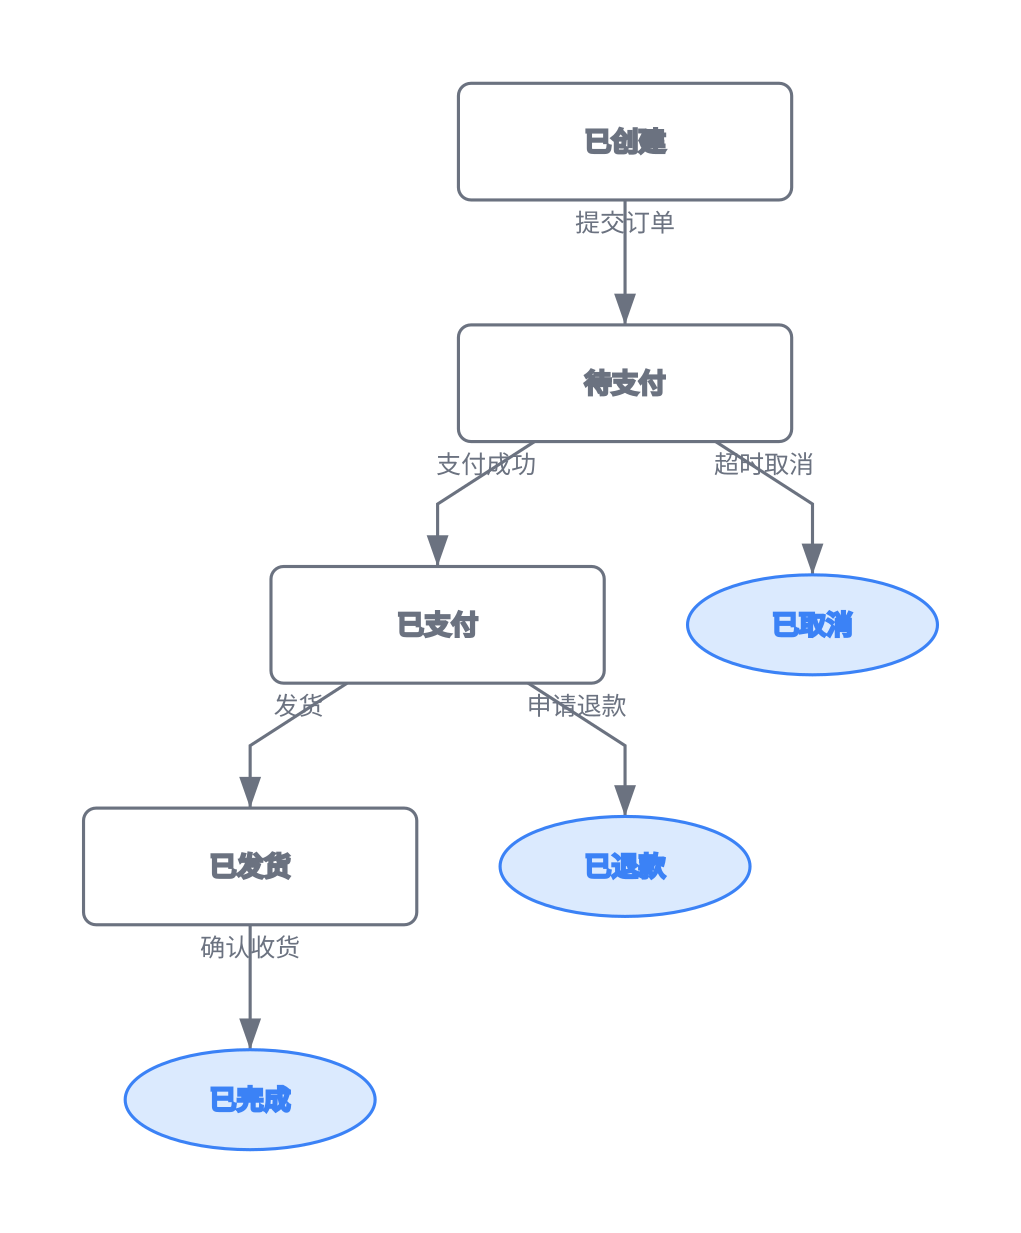
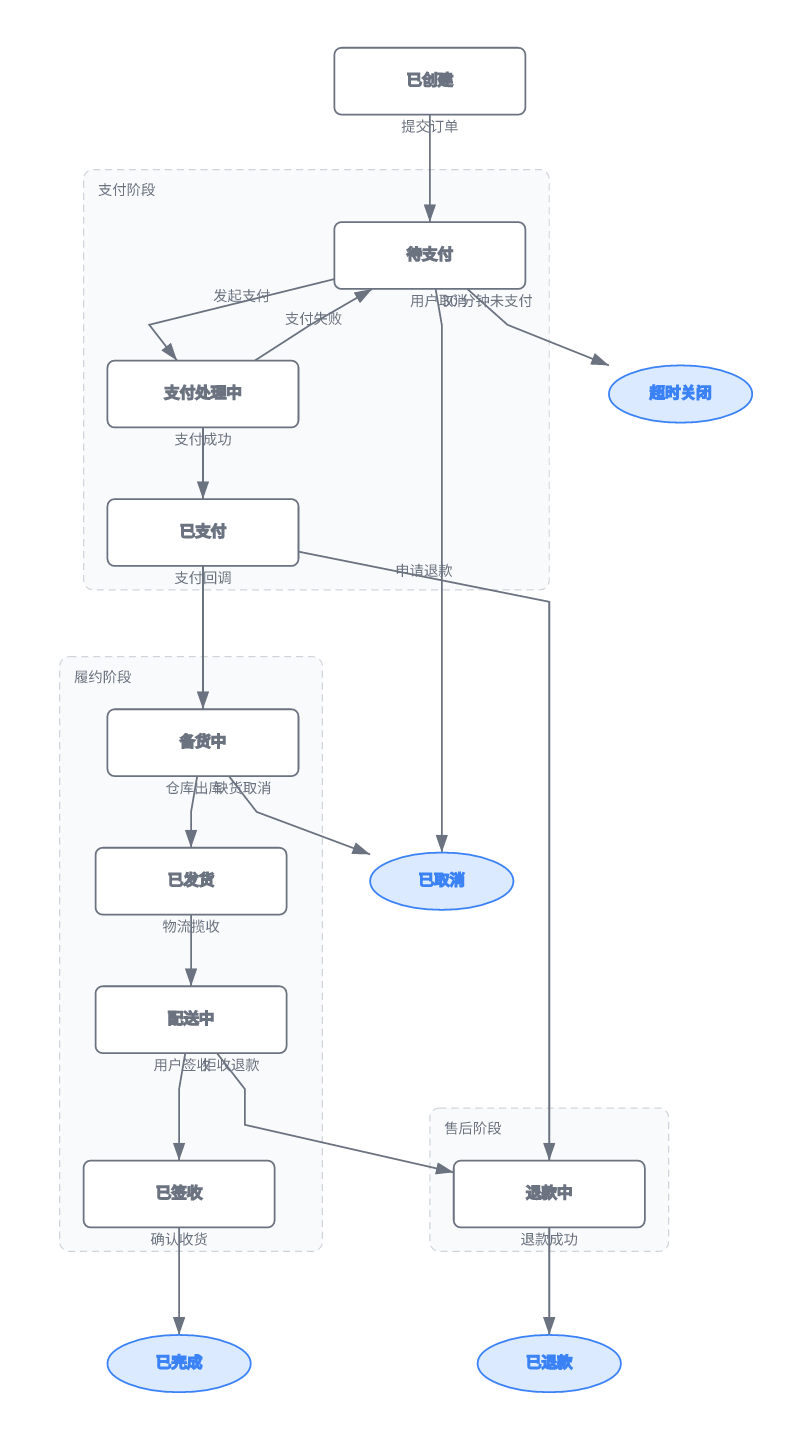
feat(examples): add realistic product examples
- NEW ecommerce-flow.lgdl: 电商下单全流程 (14 nodes, 4 domains,
  2 aggregate edges, 4 decision branches)
- NEW microservices.lgdl: 电商微服务架构 (16 nodes, 4 layers,
  2 aggregate edges, note node)
- state.lgdl upgraded: 完整订单状态机 (13 states incl. 支付失败重试/
  退款/拒收, 3 phase groups)
- web examples.ts synced; SVGs/PNGs generated; README table updated
  to 4x3 grid with the new examples

diff --git a/packages/web/src/examples.ts b/packages/web/src/examples.ts
@@ -15,6 +15,12 @@ export const EXAMPLES: Example[] = [
     label: "Web 应用系统架构",
     source: "title: Web 应用系统架构\ntype: arch\n\nnodes:\n  - id: user\n    label: 用户浏览器\n    kind: start\n  - id: cdn\n    label: CDN\n    kind: process\n  - id: nginx\n    label: Nginx 网关\n    kind: process\n  - id: app\n    label: 应用服务\n    kind: process\n  - id: redis\n    label: Redis 缓存\n    kind: entity\n  - id: mysql\n    label: MySQL 主库\n    kind: entity\n  - id: mq\n    label: 消息队列\n    kind: entity\n  - id: worker\n    label: 异步任务\n    kind: process\n  - id: oss\n    label: 对象存储\n    kind: entity\n  - id: note\n    label: 静态资源由 CDN 回源 OSS\n    kind: note            # 便签节点（note 类型）\n\nedges:\n  - from: user\n    to: cdn\n    label: HTTPS\n  - from: cdn\n    to: nginx\n  - from: nginx\n    to: app\n  - from: app\n    to: redis\n    label: 读缓存\n  - from: app\n    to: mysql\n    label: 读写库\n  - from: app\n    to: mq\n    label: 发消息\n  - from: mq\n    to: worker\n  - from: worker\n    to: oss\n    label: 上传\n  - from: front\n    to: core\n    label: 转发请求       # 聚合边：接入层 → 核心服务\n  - from: core\n    to: data\n    label: 数据存储       # 聚合边：核心服务 → 数据层\n  - from: user\n    to: core\n    label: 业务入口       # 混合聚合边：节点 → 组\n\ngroups:\n  - id: front\n    label: 接入层\n    contains: [cdn, nginx]\n  - id: core\n    label: 核心服务\n    contains: [app]\n  - id: data\n    label: 数据层\n    contains: [redis, mysql, mq, worker, oss]\n",
   },
+
+  {
+    id: "microservices",
+    label: "电商微服务架构",
+    source: "title: 电商微服务架构\ntype: arch\n\nnodes:\n  - id: client\n    label: 客户端 App\n    kind: start\n  - id: gateway\n    label: API 网关\n    kind: process\n  - id: auth\n    label: 认证服务\n    kind: process\n  - id: user\n    label: 用户服务\n    kind: process\n  - id: product\n    label: 商品服务\n    kind: process\n  - id: order\n    label: 订单服务\n    kind: process\n  - id: inventory\n    label: 库存服务\n    kind: process\n  - id: payment\n    label: 支付服务\n    kind: process\n  - id: notify\n    label: 通知服务\n    kind: process\n  - id: search\n    label: 搜索服务\n    kind: process\n  - id: redis\n    label: Redis 缓存\n    kind: entity\n  - id: mysql\n    label: MySQL 集群\n    kind: entity\n  - id: mq\n    label: 消息队列\n    kind: entity\n  - id: es\n    label: Elasticsearch\n    kind: entity\n  - id: oss\n    label: 对象存储\n    kind: entity\n  - id: monitor\n    label: 监控告警\n    kind: note\n\nedges:\n  - from: client\n    to: gateway\n    label: HTTPS\n  - from: gateway\n    to: auth\n    label: 鉴权\n  - from: gateway\n    to: user\n  - from: gateway\n    to: product\n  - from: gateway\n    to: order\n  - from: gateway\n    to: inventory\n  - from: gateway\n    to: payment\n  - from: gateway\n    to: search\n  - from: order\n    to: inventory\n    label: 锁库存\n  - from: order\n    to: payment\n    label: 发起支付\n  - from: payment\n    to: notify\n    label: 支付回调\n  - from: order\n    to: redis\n    label: 读写缓存\n  - from: order\n    to: mysql\n    label: 订单落库\n  - from: user\n    to: mysql\n  - from: inventory\n    to: mysql\n  - from: payment\n    to: mq\n    label: 发消息\n  - from: notify\n    to: mq\n  - from: product\n    to: es\n    label: 同步索引\n  - from: client\n    to: oss\n    label: 上传头像\n  - from: gateway-layer\n    to: service-layer\n    label: 路由转发\n  - from: service-layer\n    to: infra\n    label: 数据访问\n\ngroups:\n  - id: gateway-layer\n    label: 接入层\n    contains: [gateway]\n  - id: service-layer\n    label: 业务层\n    contains: [auth, user, product, order, inventory, payment, notify, search]\n  - id: infra\n    label: 基础设施\n    contains: [redis, mysql, mq, es, oss]\n  - id: observability\n    label: 可观测\n    contains: [monitor]\n",
+  },
   {
     id: "datastream",
     label: "订单处理数据流",
@@ -35,6 +41,12 @@ export const EXAMPLES: Example[] = [
     label: "用户登录流程",
     source: "title: 用户登录流程\ntype: flowchart\n\nnodes:\n  - id: start\n    label: 用户访问\n    kind: start\n  - id: login\n    label: 输入账号密码\n    kind: process\n  - id: verify\n    label: 验证凭据\n    kind: decision\n  - id: ok\n    label: 登录成功\n    kind: end\n  - id: fail\n    label: 登录失败\n    kind: end\n\nedges:\n  - from: start\n    to: login\n    label: 打开页面\n  - from: login\n    to: verify\n    label: 提交\n  - from: verify\n    to: ok\n    label: 通过\n  - from: verify\n    to: fail\n    label: 失败\n  - from: auth\n    to: backend\n    label: 整体调用\n\ngroups:\n  - id: auth\n    label: 认证模块\n    contains: [login]\n  - id: frontend\n    label: 前端层\n    contains: [start, auth]\n  - id: backend\n    label: 后端层\n    contains: [verify, ok, fail]\n",
   },
+
+  {
+    id: "ecommerce-flow",
+    label: "电商下单全流程",
+    source: "title: 电商下单全流程\ntype: flowchart\n\nnodes:\n  - id: browse\n    label: 浏览商品\n    kind: start\n  - id: cart\n    label: 加入购物车\n    kind: process\n  - id: submit\n    label: 提交订单\n    kind: process\n  - id: validate\n    label: 订单校验\n    kind: decision\n  - id: lock-stock\n    label: 锁定库存\n    kind: decision\n  - id: pay\n    label: 收银台支付\n    kind: decision\n  - id: risk\n    label: 风控审核\n    kind: decision\n  - id: pay-ok\n    label: 支付成功\n    kind: process\n  - id: deduct\n    label: 扣减库存\n    kind: process\n  - id: ship\n    label: 创建物流单\n    kind: process\n  - id: done\n    label: 订单完成\n    kind: end\n  - id: cancel\n    label: 订单取消\n    kind: end\n  - id: stock-fail\n    label: 库存不足\n    kind: end\n  - id: refund\n    label: 发起退款\n    kind: end\n\nedges:\n  - from: browse\n    to: cart\n    label: 选择商品\n  - from: cart\n    to: submit\n    label: 去结算\n  - from: submit\n    to: validate\n  - from: validate\n    to: lock-stock\n    label: 校验通过\n  - from: validate\n    to: cancel\n    label: 参数异常\n  - from: lock-stock\n    to: pay\n    label: 锁定成功\n  - from: lock-stock\n    to: stock-fail\n    label: 库存不足\n  - from: pay\n    to: risk\n    label: 发起支付\n  - from: pay\n    to: cancel\n    label: 用户放弃\n  - from: risk\n    to: pay-ok\n    label: 审核通过\n  - from: risk\n    to: cancel\n    label: 风险拦截\n  - from: pay-ok\n    to: deduct\n  - from: deduct\n    to: ship\n    label: 通知履约\n  - from: ship\n    to: done\n    label: 确认收货\n  - from: deduct\n    to: refund\n    label: 售后保障\n  - from: trade\n    to: fulfillment\n    label: 订单推送\n  - from: fulfillment\n    to: after-sale\n    label: 售后入口\n\ngroups:\n  - id: shopping\n    label: 购物域\n    contains: [browse, cart]\n  - id: trade\n    label: 交易域\n    contains: [submit, validate, lock-stock, pay, risk, pay-ok, deduct]\n  - id: fulfillment\n    label: 履约域\n    contains: [ship, done]\n  - id: after-sale\n    label: 售后域\n    contains: [refund]\n",
+  },
   {
     id: "mindmap",
     label: "AI 项目技术选型",
@@ -48,7 +60,7 @@ export const EXAMPLES: Example[] = [
   {
     id: "state",
     label: "订单状态机",
-    source: "title: 订单状态机\ntype: state\n\nnodes:\n  - id: created\n    label: 已创建\n    kind: state\n  - id: pending\n    label: 待支付\n    kind: state\n  - id: paid\n    label: 已支付\n    kind: state\n  - id: shipped\n    label: 已发货\n    kind: state\n  - id: done\n    label: 已完成\n    kind: end\n  - id: cancelled\n    label: 已取消\n    kind: end\n  - id: refunded\n    label: 已退款\n    kind: end\n\nedges:\n  - from: created\n    to: pending\n    label: 提交订单\n  - from: pending\n    to: paid\n    label: 支付成功\n  - from: pending\n    to: cancelled\n    label: 超时取消\n  - from: paid\n    to: shipped\n    label: 发货\n  - from: shipped\n    to: done\n    label: 确认收货\n  - from: paid\n    to: refunded\n    label: 申请退款\n",
+    source: "title: 订单状态机（完整版）\ntype: state\n\nnodes:\n  - id: created\n    label: 已创建\n    kind: state\n  - id: pending\n    label: 待支付\n    kind: state\n  - id: paying\n    label: 支付处理中\n    kind: state\n  - id: paid\n    label: 已支付\n    kind: state\n  - id: preparing\n    label: 备货中\n    kind: state\n  - id: shipped\n    label: 已发货\n    kind: state\n  - id: delivering\n    label: 配送中\n    kind: state\n  - id: received\n    label: 已签收\n    kind: state\n  - id: done\n    label: 已完成\n    kind: end\n  - id: closed\n    label: 超时关闭\n    kind: end\n  - id: cancelled\n    label: 已取消\n    kind: end\n  - id: refunding\n    label: 退款中\n    kind: state\n  - id: refunded\n    label: 已退款\n    kind: end\n\nedges:\n  - from: created\n    to: pending\n    label: 提交订单\n  - from: pending\n    to: paying\n    label: 发起支付\n  - from: paying\n    to: paid\n    label: 支付成功\n  - from: paying\n    to: pending\n    label: 支付失败\n  - from: pending\n    to: closed\n    label: 30 分钟未支付\n  - from: pending\n    to: cancelled\n    label: 用户取消\n  - from: paid\n    to: preparing\n    label: 支付回调\n  - from: preparing\n    to: shipped\n    label: 仓库出库\n  - from: preparing\n    to: cancelled\n    label: 缺货取消\n  - from: shipped\n    to: delivering\n    label: 物流揽收\n  - from: delivering\n    to: received\n    label: 用户签收\n  - from: received\n    to: done\n    label: 确认收货\n  - from: paid\n    to: refunding\n    label: 申请退款\n  - from: delivering\n    to: refunding\n    label: 拒收退款\n  - from: refunding\n    to: refunded\n    label: 退款成功\n\ngroups:\n  - id: payment-flow\n    label: 支付阶段\n    contains: [pending, paying, paid]\n  - id: fulfillment-flow\n    label: 履约阶段\n    contains: [preparing, shipped, delivering, received]\n  - id: after-sale\n    label: 售后阶段\n    contains: [refunding]\n",
   },
   {
     id: "uml-class",

diff --git a/README.md b/README.md
@@ -48,17 +48,21 @@ AI 的每次修改都是**增量 patch**（`add-node` / `remove-node` / `update-
 
 一种 LGDL 语言，九种图——全部由 `lgdl render` 自动布局生成，无任何手工排版：
 
-| flowchart 流程图 | mindmap 思维导图 | sequence 时序图 |
+| flowchart 流程图 | flowchart 实战 | mindmap 思维导图 |
 |---|---|---|
-| <p align="center"><img src="examples/login-flow.png" width="280"/><br/>[📄 源码](examples/login-flow.lgdl)</p> | <p align="center"><img src="examples/mindmap.png" width="280"/><br/>[📄 源码](examples/mindmap.lgdl)</p> | <p align="center"><img src="examples/sequence.png" width="280"/><br/>[📄 源码](examples/sequence.lgdl)</p> |
+| <p align="center"><img src="examples/login-flow.png" width="280"/><br/>[📄 源码](examples/login-flow.lgdl)</p> | <p align="center"><img src="examples/ecommerce-flow.png" width="280"/><br/>[📄 源码](examples/ecommerce-flow.lgdl)</p> | <p align="center"><img src="examples/mindmap.png" width="280"/><br/>[📄 源码](examples/mindmap.lgdl)</p> |
 
-| uml-class 类图 | arch 架构图 | datastream 数据流 |
+| sequence 时序图 | uml-class 类图 | arch 架构图 |
 |---|---|---|
-| <p align="center"><img src="examples/uml-class.png" width="280"/><br/>[📄 源码](examples/uml-class.lgdl)</p> | <p align="center"><img src="examples/architecture.png" width="280"/><br/>[📄 源码](examples/architecture.lgdl)</p> | <p align="center"><img src="examples/datastream.png" width="280"/><br/>[📄 源码](examples/datastream.lgdl)</p> |
+| <p align="center"><img src="examples/sequence.png" width="280"/><br/>[📄 源码](examples/sequence.lgdl)</p> | <p align="center"><img src="examples/uml-class.png" width="280"/><br/>[📄 源码](examples/uml-class.lgdl)</p> | <p align="center"><img src="examples/architecture.png" width="280"/><br/>[📄 源码](examples/architecture.lgdl)</p> |
 
-| er ER 图 | state 状态机 | gantt 甘特图 |
+| arch 实战：微服务 | datastream 数据流 | er ER 图 |
 |---|---|---|
-| <p align="center"><img src="examples/er.png" width="280"/><br/>[📄 源码](examples/er.lgdl)</p> | <p align="center"><img src="examples/state.png" width="280"/><br/>[📄 源码](examples/state.lgdl)</p> | <p align="center"><img src="examples/gantt.png" width="280"/><br/>[📄 源码](examples/gantt.lgdl)</p> |
+| <p align="center"><img src="examples/microservices.png" width="280"/><br/>[📄 源码](examples/microservices.lgdl)</p> | <p align="center"><img src="examples/datastream.png" width="280"/><br/>[📄 源码](examples/datastream.lgdl)</p> | <p align="center"><img src="examples/er.png" width="280"/><br/>[📄 源码](examples/er.lgdl)</p> |
+
+| state 状态机 | gantt 甘特图 | |
+|---|---|---|
+| <p align="center"><img src="examples/state.png" width="280"/><br/>[📄 源码](examples/state.lgdl)</p> | <p align="center"><img src="examples/gantt.png" width="280"/><br/>[📄 源码](examples/gantt.lgdl)</p> | |
 
 ---
 
